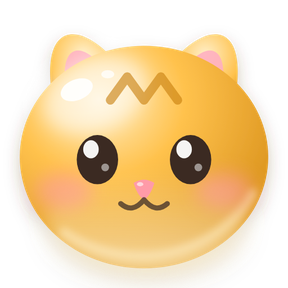
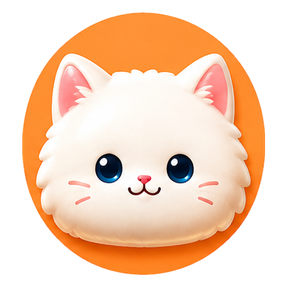
오름냥 고양이를 사용자가 준 원형 타일 그림으로 교체
직접 그리던 것을 접고, 사용자가 준 8마리 원형 타일 그림을 잘라 넣었다.

- 흰 여백만 지우고 동그라미는 살렸다. 동그라미라 칸 모서리가 비어서
  오름(초록 층)이 그대로 비친다 — 네모 타일로 시험했을 때는 오름이
  하나도 안 보여 목표를 못 찾는 문제가 있었는데, 원형이 그걸 없앴다
- 남색 동그라미를 무지개냥(특수조각)으로 돌렸다. 원본 8색 중 파랑과
  제일 가까웠던 짝이라 겹침도 같이 해결. 바탕만 무지개고 얼굴은 그대로
- 이름 짝짓기는 색 뜻에 맞췄다 (감귤냥=주황, 동백냥=빨강, 바당냥=파랑,
  곶자왈냥=초록, 별밤냥=보라, 노을냥=노랑, 구름냥=회색고양이)
- cats.js: 고양이 그림 주소에 ?v= 를 붙였다. 안 그러면 와봤던 사람
  브라우저가 옛 그림을 계속 쓴다. 그림을 바꿀 때 CAT_VER 만 올리면 된다
- 카드·링크미리보기 사진도 새 고양이로 다시 찍고 ?v=4 로 올렸다

diff --git a/games/mini/oreumnyang/index.html b/games/mini/oreumnyang/index.html
@@ -11,12 +11,12 @@
 <meta property="og:description" content="오름냥 - 가볍게 즐기는 퍼즐게임! 한판만 하려다 어느새 101판째! 설치도 회원가입도 없이 브라우저에서 바로 하는 웹게임. 고양이 3매치 200판.">
 <meta property="og:type" content="website">
 <meta property="og:url" content="https://oreumgames.com/games/mini/oreumnyang/">
-<meta property="og:image" content="https://oreumgames.com/assets/oreumnyang-og.webp?v=3">
+<meta property="og:image" content="https://oreumgames.com/assets/oreumnyang-og.webp?v=4">
 <meta name="twitter:card" content="summary_large_image">
 <meta name="twitter:title" content="오름냥 - 제주 고양이 퍼즐 200판">
 <meta name="twitter:description" content="오름냥 - 가볍게 즐기는 퍼즐게임! 한판만 하려다 어느새 101판째! 설치도 회원가입도 없이 브라우저에서 바로 하는 웹게임. 고양이 3매치 200판.">
-<meta name="twitter:image" content="https://oreumgames.com/assets/oreumnyang-og.webp?v=3">
-<link rel="stylesheet" href="style.css?v=20260820d">
+<meta name="twitter:image" content="https://oreumgames.com/assets/oreumnyang-og.webp?v=4">
+<link rel="stylesheet" href="style.css?v=20260820e">
 </head>
 <body>
 
@@ -138,12 +138,12 @@
   </div>
 </div>
 
-<script src="js/i18n.js?v=20260820d"></script>
-<script src="js/audio.js?v=20260820d"></script>
-<script src="js/cats.js?v=20260820d"></script>
-<script src="js/stages.js?v=20260820d"></script>
-<script src="js/game.js?v=20260820d"></script>
-<script src="js/main.js?v=20260820d"></script>
+<script src="js/i18n.js?v=20260820e"></script>
+<script src="js/audio.js?v=20260820e"></script>
+<script src="js/cats.js?v=20260820e"></script>
+<script src="js/stages.js?v=20260820e"></script>
+<script src="js/game.js?v=20260820e"></script>
+<script src="js/main.js?v=20260820e"></script>
 <script src="/assets/game-home.js" defer></script>
 </body>
 </html>

diff --git a/games/mini/oreumnyang/js/cats.js b/games/mini/oreumnyang/js/cats.js
@@ -53,6 +53,10 @@
      assets/cats/manifest.json 이 있으면 거기 적힌 것만 읽는다.
      (없는 파일을 헛되이 부르지 않게. 목록은 에셋목록.py 가 만들어 준다)
      목록 파일이 없으면 예전처럼 8장을 하나씩 찾아본다. */
+  /* 고양이 그림을 바꾸면 이 날짜를 올린다.
+     안 올리면 예전에 왔던 사람 브라우저가 옛 그림을 계속 쓴다. */
+  var CAT_VER = '20260820b';
+
   var IMG_KEYS = ['0', '1', '2', '3', '4', '5', '6', 'rainbow'];
   var IMG_FILES = ['cat0', 'cat1', 'cat2', 'cat3', 'cat4', 'cat5', 'cat6', 'cat_rainbow'];
 
@@ -60,7 +64,7 @@
     var img = new Image();
     img.onload = function () { IMGS[key] = img; done(); };
     img.onerror = done;
-    img.src = 'assets/cats/' + file + '.png';
+    img.src = 'assets/cats/' + file + '.png?v=' + CAT_VER;
   }
 
   function tryLoadImages(onDone) {

diff --git a/games/mini/index.html b/games/mini/index.html
@@ -95,7 +95,7 @@
 
         <li class="card" id="oreumnyang">
           <a class="card-shot" href="oreumnyang/?lang=ko">
-            <img src="/assets/oreumnyang-shot.webp?v=3" alt="색색의 고양이 얼굴이 격자로 채워진 퍼즐판. 회색 돌담과 당근이 군데군데 섞여 있다" loading="lazy" width="800" height="500">
+            <img src="/assets/oreumnyang-shot.webp?v=4" alt="색색의 고양이 얼굴이 격자로 채워진 퍼즐판. 회색 돌담과 당근이 군데군데 섞여 있다" loading="lazy" width="800" height="500">
           </a>
           <div class="card-body">
             <h3><a href="oreumnyang/?lang=ko">오름냥</a></h3>

diff --git a/en/games/mini/index.html b/en/games/mini/index.html
@@ -98,7 +98,7 @@
 
         <li class="card" id="oreumnyang">
           <a class="card-shot" href="/games/mini/oreumnyang/?lang=en">
-            <img src="/assets/oreumnyang-shot.webp?v=3" alt="A grid of colourful cat faces with grey stone blocks and carrots mixed in" loading="lazy" width="800" height="500">
+            <img src="/assets/oreumnyang-shot.webp?v=4" alt="A grid of colourful cat faces with grey stone blocks and carrots mixed in" loading="lazy" width="800" height="500">
           </a>
           <div class="card-body">
             <h3><a href="/games/mini/oreumnyang/?lang=en">Oreumnyang</a></h3>

diff --git a/index.html b/index.html
@@ -145,7 +145,7 @@
       <ul class="mini-cards">
         <li class="mini-card">
           <a href="/games/mini/#oreumnyang">
-            <img src="/assets/oreumnyang-shot.webp?v=3" alt="" loading="lazy" width="104" height="65">
+            <img src="/assets/oreumnyang-shot.webp?v=4" alt="" loading="lazy" width="104" height="65">
             <span class="mini-body">
               <span class="mini-t">오름냥</span>
               <span class="mini-s">제주 3매치 퍼즐 · PC·모바일</span>

diff --git a/en/index.html b/en/index.html
@@ -144,7 +144,7 @@
       <ul class="mini-cards">
         <li class="mini-card">
           <a href="/en/games/mini/#oreumnyang">
-            <img src="/assets/oreumnyang-shot.webp?v=3" alt="" loading="lazy" width="104" height="65">
+            <img src="/assets/oreumnyang-shot.webp?v=4" alt="" loading="lazy" width="104" height="65">
             <span class="mini-body">
               <span class="mini-t">Oreumnyang</span>
               <span class="mini-s">Jeju match-3 puzzle · PC·phone</span>
